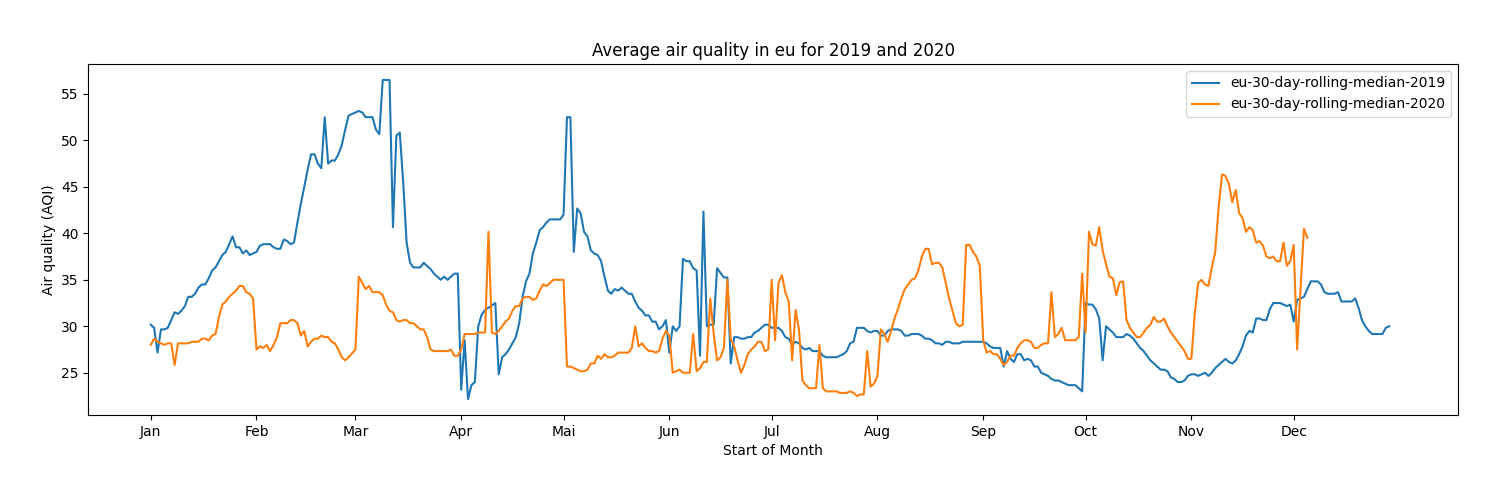
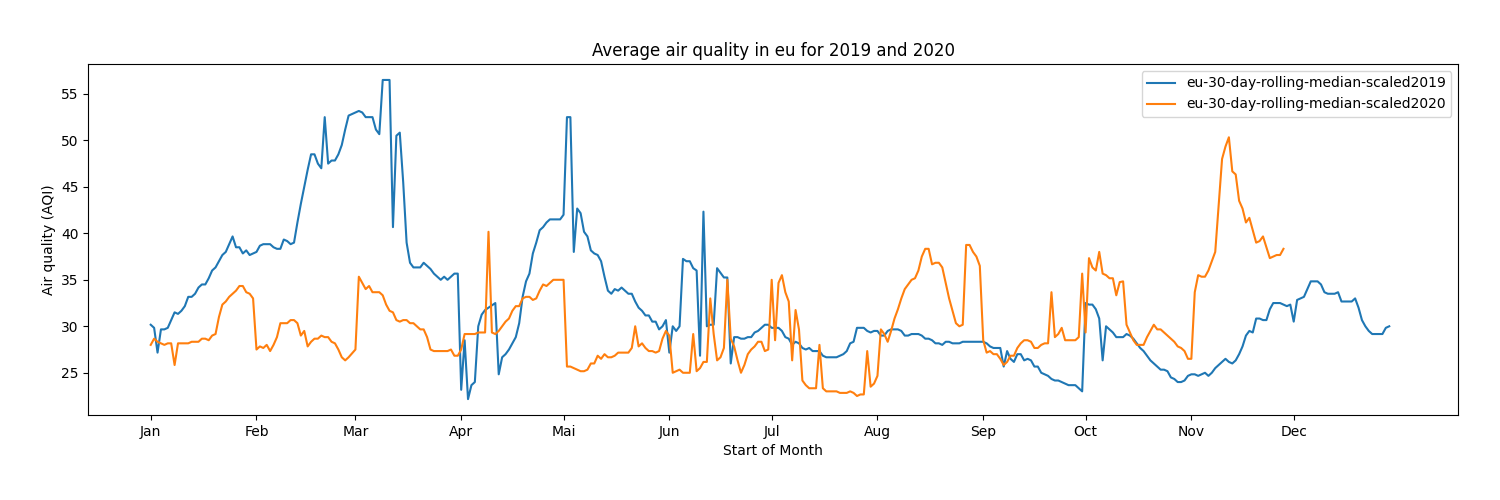
adds scaling, simplify config and plot scaled values

diff --git a/air_quality/air_quality_parser.py b/air_quality/air_quality_parser.py
@@ -9,8 +9,13 @@ import datetime
 import numpy as np
 from dateutil.relativedelta import relativedelta
 
+config = {'rolling_avg': 7, 'scale': False}
 
-def parse_file(filepath: str, N_rolling_average=7) -> pd.DataFrame:
+def set_config(avg, scale):
+    config['rolling_avg'] = avg
+    config['scale'] = scale
+
+def parse_file(filepath: str) -> pd.DataFrame:
 
     # Read csv file to dataframe.
     df = pd.read_csv(filepath_or_buffer=filepath, delimiter=',')
@@ -22,7 +27,7 @@ def parse_file(filepath: str, N_rolling_average=7) -> pd.DataFrame:
     # Convert data columns to numerics
     df[data_cols] = df[data_cols].apply(pd.to_numeric, errors='coerce')
 
-    if len(data_cols) > 2:
+    if ' pm10' in df.columns:
         # Drop entries without pm measurements
         df = df.drop(df[df[[' pm25', ' pm10']].count(axis=1) == 0].index)
     else:
@@ -33,7 +38,7 @@ def parse_file(filepath: str, N_rolling_average=7) -> pd.DataFrame:
     df['AQI'] = df[data_cols].max(axis=1)
 
     # Calculate rolling windows median
-    df['Nday_rolling_AQI'] = df['AQI'].rolling(window=N_rolling_average, min_periods=1).median()
+    df['Nday_rolling_AQI'] = df['AQI'].rolling(window=config['rolling_avg'], min_periods=1).median()
 
     # Map aqi to bucket values
     df['pollution_level'] = df['AQI'].apply(lambda x: aqi_converter.get_pollution_level(x))
@@ -49,16 +54,23 @@ def get_dataset_filepaths(parent_dir='waqi_datasets/', subdirs=['asia', 'us', 'e
     return {sdir: list(*os.walk(parent_dir + sdir))[2] for sdir in subdirs}
 
 
-def get_comparative_dataframe(filepath: str, N_rolling_average=7) -> pd.DataFrame:
+def get_comparative_dataframe(filepath: str) -> pd.DataFrame:
     """reads dataframe from file and pivots data to be columns with a years data"""
 
-    fname, df = parse_file(filepath, N_rolling_average)
+    fname, df = parse_file(filepath)
 
     # Pivot table to group table columns by year
     pv = pd.pivot_table(df, index=df['date'].dt.dayofyear, columns=df['date'].dt.year, values='Nday_rolling_AQI')
 
     # Extract relevant years
     df1 = pv[[2019, 2020]].copy()
+
+    # Scale values after maximal value
+    if config['scale']:
+        dfmax = df1[2019].max()
+        df1[2019] = df1[2019].apply(lambda x: x/dfmax)
+        dfmax = df1[2020].max()
+        df1[2020] = df1[2020].apply(lambda x: x/dfmax)
 
     # Convert from ordinal(1-365) dates to regular date values
     df1.index = df1.index.map(datetime.date.fromordinal).map(lambda x: x + relativedelta(years=2019))
@@ -69,25 +81,24 @@ def get_comparative_dataframe(filepath: str, N_rolling_average=7) -> pd.DataFram
     return df1
 
 
-def parse_all_datasets(parent_dir='waqi_datasets/', N_rolling_average=7):
+def parse_all_datasets(parent_dir='waqi_datasets/'):
 
     datasets = get_dataset_filepaths()
     r = {}
 
     # Reads all files and maps the comparative dataframes to their region
     for continent, cities in datasets.items():
-        r[continent] = [get_comparative_dataframe(
-            parent_dir + continent + '/' + city, N_rolling_average) for city in cities]
+        r[continent] = [get_comparative_dataframe(parent_dir + continent + '/' + city) for city in cities]
 
     return r
 
 
-def combined_region_dfs(N_rolling_average=7) -> Dict[str, DataFrame]:
+def combined_region_dfs() -> Dict[str, DataFrame]:
     """ For all regions will return dataframe with 2019 and 2020 data for all cities in region and combined mean
         Returns dict{'us|eu|asia': dataframe}
     """
 
-    dfmap = parse_all_datasets(N_rolling_average=N_rolling_average)
+    dfmap = parse_all_datasets()
 
     region_dict = {}
 
@@ -108,8 +119,9 @@ def combined_region_dfs(N_rolling_average=7) -> Dict[str, DataFrame]:
     return region_dict
 
 
-def combine_all_regions(path='', plot=True, save=True, N_rolling_average=7):
-    dfs = combined_region_dfs(N_rolling_average)
+def combine_all_regions(path='', plot=True, save=True, N_rolling_average=7, scale=False):
+    set_config(N_rolling_average, scale)
+    dfs = combined_region_dfs()
 
     global_df = pd.concat(dfs.values(), axis=1, sort=False)
 
@@ -121,7 +133,6 @@ def combine_all_regions(path='', plot=True, save=True, N_rolling_average=7):
     global_df['global-mean-2019'] = global_df[cols2019].mean(axis=1)
     global_df['global-mean-2020'] = global_df[cols2020].mean(axis=1)
 
-    print(global_df[['global-mean-2019', 'global-mean-2020']])
     fig = plt.figure()
     ax = plt.gca()
 
@@ -131,6 +142,7 @@ def combine_all_regions(path='', plot=True, save=True, N_rolling_average=7):
 
     months = ["Jan", "Feb", "Mar", "Apr", "Mai", "Jun",
               "Jul", "Aug", "Sep", "Oct", "Nov", "Dec"]
+
     ax.set_xticks(ax.get_xticks().tolist()[:-1])
     ax.set_xticklabels(months)
 
@@ -140,19 +152,32 @@ def combine_all_regions(path='', plot=True, save=True, N_rolling_average=7):
     fig.tight_layout(pad=3.0)
 
     plt.xlabel('Start of Month')
-    plt.ylabel('Air quality (AQI)')
-    plt.title('Average global air quality for 2019 and 2020')
+    if scale:
+            plt.ylabel('Scaled Air quality (AQI)')
+            plt.title('Scaled Average global air quality for 2019 and 2020')
+    else:
+        plt.ylabel('Air quality (AQI)')
+        plt.title('Average global air quality for 2019 and 2020')
 
     if save:
-        plt.savefig(path+'global_average_rolling7.png')
+        if scale:
+            plt.savefig(path + 'scaled_global_average_rolling7.png')
+        else:
+            plt.savefig(path + 'global_average_rolling7.png')
+
     if plot:
         plt.show()
 
 
-def plot_regions(path='', plot=True, save=False, N_rolling_average=7):
-    dfs = combined_region_dfs(N_rolling_average)
+def plot_regions(path='', plot=True, save=False, N_rolling_average=7, scale=False):
+    set_config(N_rolling_average, scale)
+    dfs = combined_region_dfs()
 
-    def get_label(region, year): return region + '-' + str(N_rolling_average) + '-day-rolling-median-' + str(year)
+    def get_label(region, year): 
+        if scale:
+            return region + '-' + str(N_rolling_average) + '-day-rolling-median-' + str(year)
+        else:
+            return region + '-' + str(N_rolling_average) + '-day-rolling-median-scaled' + str(year)
 
     for region, df in dfs.items():
         fig = plt.figure()
@@ -170,14 +195,22 @@ def plot_regions(path='', plot=True, save=False, N_rolling_average=7):
         ax.set_xticklabels(months)
 
         plt.xlabel('Start of Month')
-        plt.ylabel('Air quality (AQI)')
-        plt.title('Average air quality in ' + region + ' for 2019 and 2020')
+        if scale:
+            plt.ylabel('Scaled Air quality (AQI)')
+            plt.title('Scaled Average air quality in ' + region + ' for 2019 and 2020')
+        else:
+            plt.ylabel('Air quality (AQI)')
+            plt.title('Average air quality in ' + region + ' for 2019 and 2020')
 
         fig.set_figheight(5)
         fig.set_figwidth(15)
         fig.tight_layout(pad=3.0)
         if save:
-            plt.savefig(path+region+'_'+str(N_rolling_average)+'day_rolling_average'+'.png')
+            if scale:
+                plt.savefig(path+region+'_scaled_'+str(N_rolling_average)+'day_rolling_average'+'.png')
+            else:
+                plt.savefig(path+region+'_'+str(N_rolling_average)+'day_rolling_average'+'.png')
+
         if plot:
             plt.show()
 
@@ -186,3 +219,7 @@ if __name__ == "__main__":
     combine_all_regions(path='../figures/', plot=False, save=True, N_rolling_average=7)
     plot_regions(path='../figures/', plot=False, save=True, N_rolling_average=7)
     plot_regions(path='../figures/', plot=False, save=True, N_rolling_average=30)
+
+    combine_all_regions(path='../figures/', plot=False, save=True, N_rolling_average=7, scale=True)
+    plot_regions(path='../figures/', plot=False, save=True, N_rolling_average=7, scale=True)
+    plot_regions(path='../figures/', plot=False, save=True, N_rolling_average=30, scale=True)
